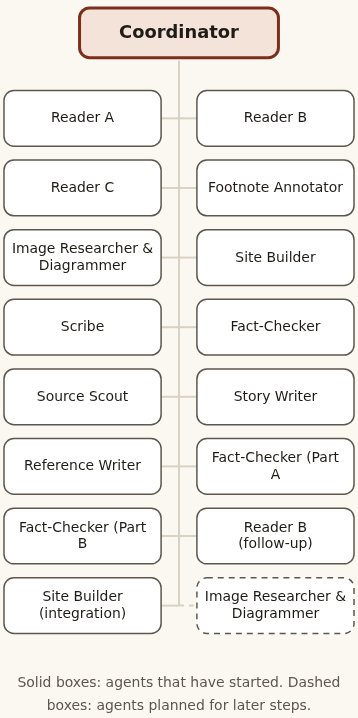
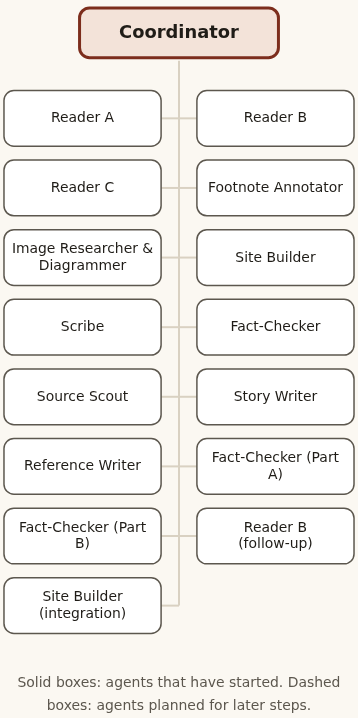
Checkpoint: Wave 3 in progress (not yet reviewed)
Claude-Session: https://claude.ai/code/session_01VzPcTHg772FLNHFdJbKT5a

diff --git a/js/how-built.js b/js/how-built.js
@@ -32,7 +32,11 @@
       return "<li>" + esc(typeof x === "string" ? x : JSON.stringify(x)) + "</li>";
     }).join("") + "</ul>";
   }
-  function shortName(name) { return String(name || "").split(":")[0].trim(); }
+  function shortName(name) {
+    var n = String(name || "").split(":")[0].trim();
+    if (n.split("(").length > n.split(")").length) n += ")";
+    return n;
+  }
 
   /* ---------- 1. Before the agents ---------- */
   var before = L.before_the_agents || {};
@@ -55,6 +59,9 @@
     var m = /^#\s*Brief:\s*([^\n]+)/.exec(b.text || "");
     return { name: m ? m[1].replace(/\s*\(.*\)\s*$/, "") : b.file, planned: true };
   });
+  // A planned brief whose agent already appears (e.g. a second pass) is not drawn twice.
+  var started = agents.map(function (a) { return shortName(a.name).toLowerCase(); });
+  planned = planned.filter(function (p) { return started.indexOf(shortName(p.name).toLowerCase()) === -1; });
   var nodes = agents.map(function (a) { return { name: a.name, planned: false }; }).concat(planned);
 
   function wrap(text, max) {
@@ -83,13 +90,13 @@
     var width = host.clientWidth || 700, svg;
     var title = "The coordinator in the center, connected to each agent. Agents never talk to each other; all work passes through the coordinator.";
     if (width >= 560) {
-      var W = 820, H = 620, cx = W / 2, cy = H / 2, rx = 310, ry = 230, n = nodes.length;
+      var W = 920, H = 700, cx = W / 2, cy = H / 2, rx = 370, ry = 290, n = nodes.length;
       var edges = "", boxes = "";
       nodes.forEach(function (nd, i) {
         var ang = -Math.PI / 2 + (2 * Math.PI * i) / Math.max(n, 1);
         var x = cx + rx * Math.cos(ang), y = cy + ry * Math.sin(ang);
         edges += '<line class="edge" x1="' + cx + '" y1="' + cy + '" x2="' + x.toFixed(1) + '" y2="' + y.toFixed(1) + '"' + (nd.planned ? ' stroke-dasharray="6 6"' : "") + "/>";
-        boxes += box(x, y, 160, 66, nd.planned ? "planned" : "agent", wrap(shortName(nd.name), 16), 16, nd.planned);
+        boxes += box(x, y, 136, 58, nd.planned ? "planned" : "agent", wrap(shortName(nd.name), 15), 14, nd.planned);
       });
       svg = '<svg viewBox="0 0 ' + W + " " + H + '" role="img" aria-labelledby="team-title"><title id="team-title">' + esc(title) + "</title>" +
         edges + boxes + box(cx, cy, 190, 70, "coord", ["Coordinator"], 21) + "</svg>";

diff --git a/css/site.css b/css/site.css
@@ -523,3 +523,8 @@ kbd {
 .corr-item dd { margin: .1rem 0 0; }
 @media print { .build-tl-wrap { max-height: none; overflow: visible; } }
 .none { color: var(--muted); font-style: italic; }
+/* The team diagram may be wider than the reading column on large screens. */
+@media (min-width: 900px) {
+  .team-diagram { width: min(58rem, calc(100vw - 2 * var(--gutter))); position: relative; left: 50%; transform: translateX(-50%); }
+  .team-diagram svg { max-width: none; }
+}
